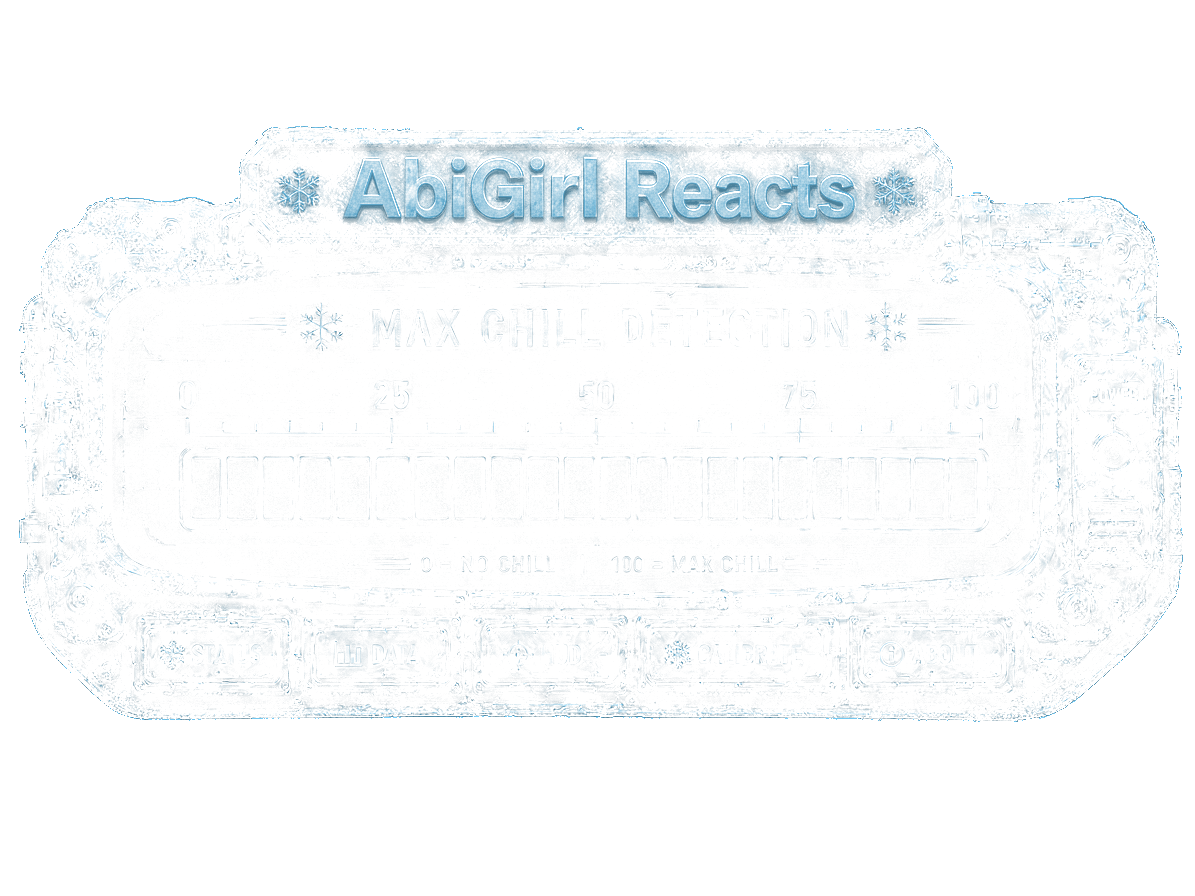
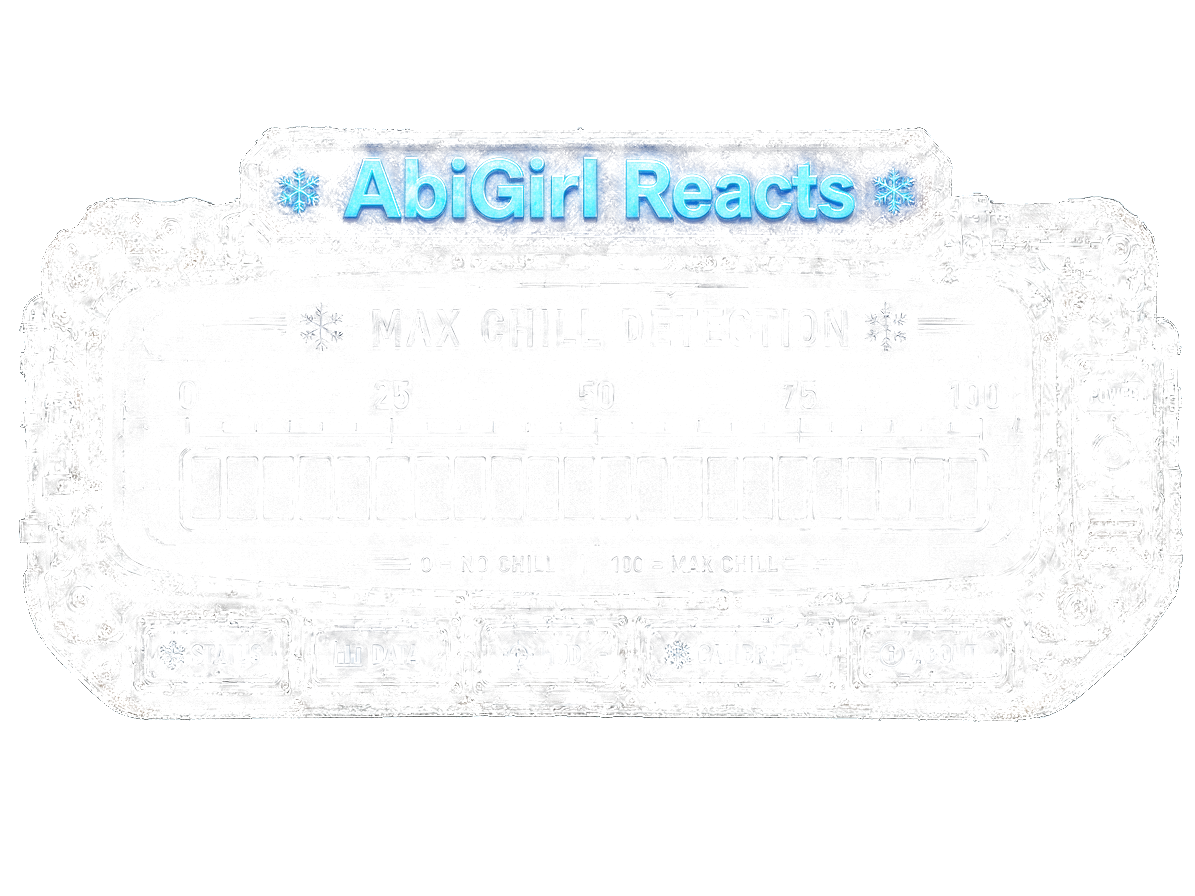
fix(chill-meter): bandeau neon plus lumineux — la recoloration ecrasait l'intensite
Aziz a compare le rendu a l'image Gemini brute : le lettrage y est un vrai
neon lumineux, alors que le calque livre etait "beaucoup plus terne". Cause
mesuree : ma recoloration (`TARGET*(0.35+0.65*lum)`) ecrasait l'intensite du
glow — couleur au pic du texte tombait a [86,150,180] contre [115,244,255]
chez Gemini (saturation quasi identique 0.52 vs 0.55, donc ce n'etait pas un
probleme de teinte mais bien de LUMINOSITE ecrasee par le plancher/facteur).

Fix : on garde desormais la couleur NATIVE de Gemini (deja generee pour etre
lumineuse) et on ne deplace la teinte que legerement vers la palette du
meter (15% recoloration / 85% natif), pondere par le canal dominant du glow
plutot que par un plancher artificiel. Verifie sur le rendu Remotion reel
(pas seulement le calque isole) : texte net et lumineux, comparable a
l'image Gemini de reference.

⛔ Note de session : ce commit atterrit sur feat/skills-cadrage-livraison
(pas fix/chill-meter-ancrage-sol ou ce travail a commence) car une autre
session a checkout cette branche dans ce repertoire de travail partage
pendant la mienne. feat/skills-cadrage-livraison descend bien du dernier
commit chill-meter (ac35eab2), aucun conflit ni ecrasement — juste un
changement de nom de branche en cours de route.

Changed region(s): [[0.2167, 0.1562, 0.7741, 0.25], [0.4644, 0.7812, 0.4954, 0.8125]]

diff --git a/src/Root.tsx b/src/Root.tsx
@@ -5828,6 +5828,15 @@ export const RemotionRoot: React.FC = () => {
           defaultProps={{ state: "fill75" as const }}
         />
         <Composition
+          id="ChillMeter-PREVIEW-Idle-sur-plateau"
+          component={ChillMeterPreviewSurSonPlateau}
+          durationInFrames={90}
+          fps={30}
+          width={1920}
+          height={1080}
+          defaultProps={{ state: "idle" as const }}
+        />
+        <Composition
           id="ChillMeter-Fill100"
           component={ChillMeterOverlay}
           durationInFrames={135}

diff --git a/scripts/tools/gemini-gen-bandeau-neon.py b/scripts/tools/gemini-gen-bandeau-neon.py
@@ -53,11 +53,21 @@ def main():
     brighten *= orig[:, :, 3] > 10  # exclut le fond blanc de studio de Gemini, hors objet
 
     alpha = np.clip(brighten * 3.0, 0, 255)
-    lum_norm = (gen.mean(2, keepdims=True) / 255.0)
-    recolored = np.clip(TARGET[None, None, :] * (0.35 + 0.65 * lum_norm), 0, 255)
+
+    # ⛔ 07/09 — Aziz a compare a l'image Gemini brute : le lettrage y est BEAUCOUP plus
+    # lumineux/nean que dans le 1er calque livre. Cause mesuree : `TARGET*(0.35+0.65*lum)`
+    # ecrasait l'intensite (couleur au pic du texte tombait a [86,150,180] contre [115,244,
+    # 255] chez Gemini). FIX : on garde la couleur NATIVE de Gemini (qui porte deja
+    # l'intensite du glow — c'est LUI qui a ete genere pour etre lumineux) et on ne
+    # deplace la teinte que legerement vers la palette du meter, en pondere par la
+    # LUMINOSITE reelle (pas un plancher artificiel qui eteint tout).
+    target_norm = TARGET / TARGET.max()
+    lum_glow = gen.max(2, keepdims=True)  # canal dominant = intensite du glow au pixel
+    recolored = np.clip(target_norm[None, None, :] * lum_glow, 0, 255)
+    final_rgb = np.clip(0.15 * recolored + 0.85 * gen, 0, 255)
 
     out = np.zeros((*lum_orig.shape, 4), dtype="uint8")
-    out[:, :, :3] = recolored.astype("uint8")
+    out[:, :, :3] = final_rgb.astype("uint8")
     out[:, :, 3] = alpha.astype("uint8")
     Image.fromarray(out, "RGBA").save(OUT)
     print(f"ecrit {OUT} — {(alpha > 20).sum()} px allumes")
